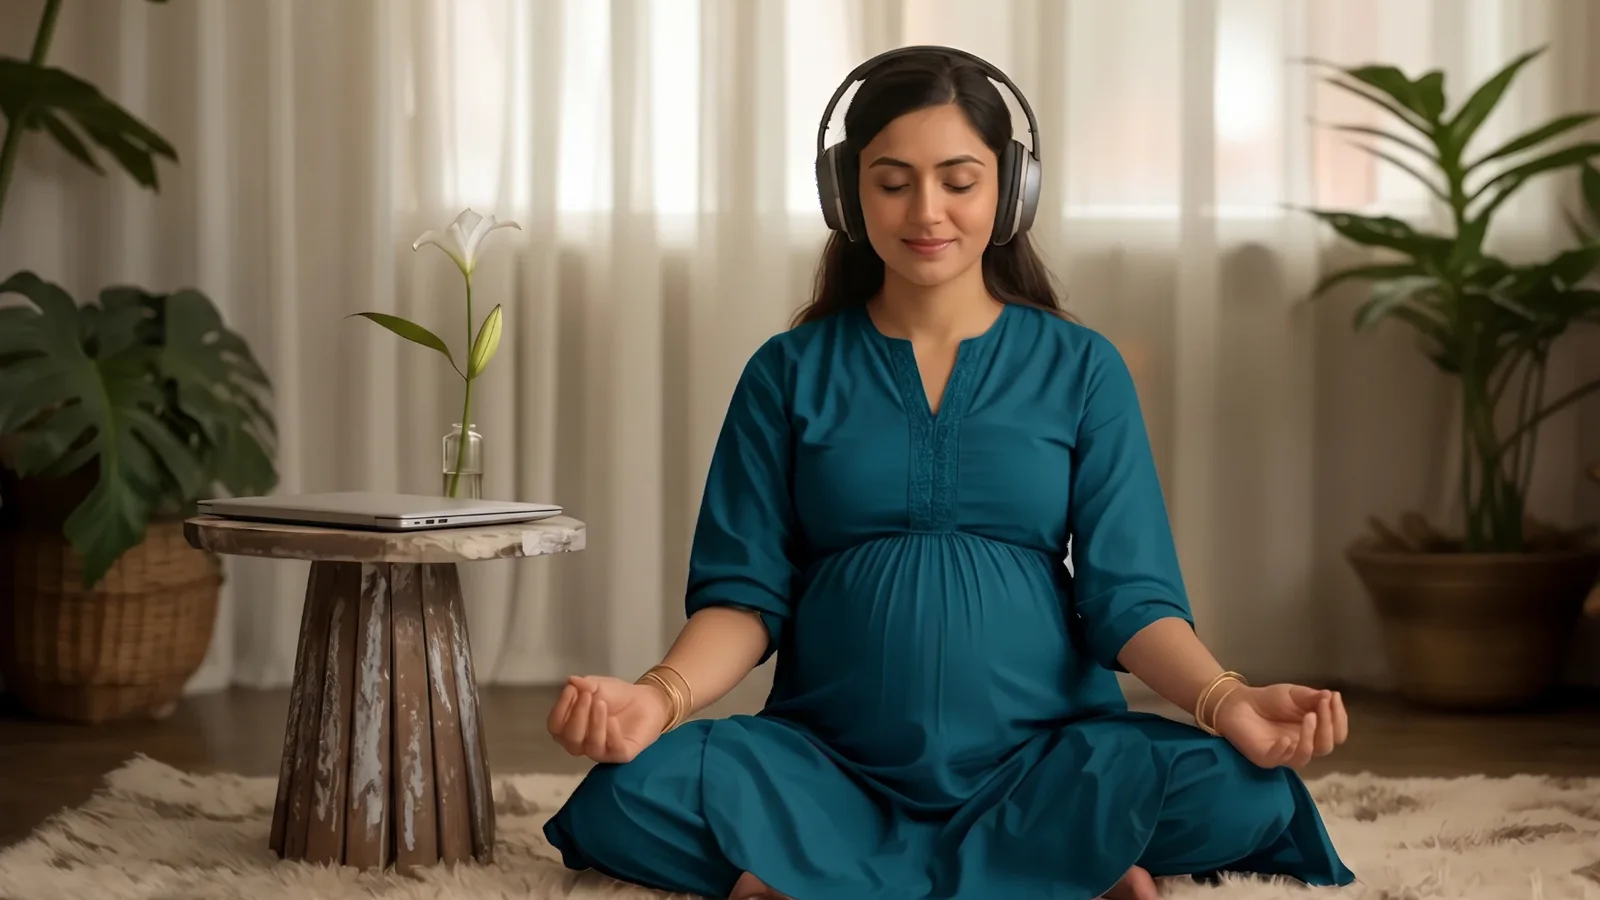
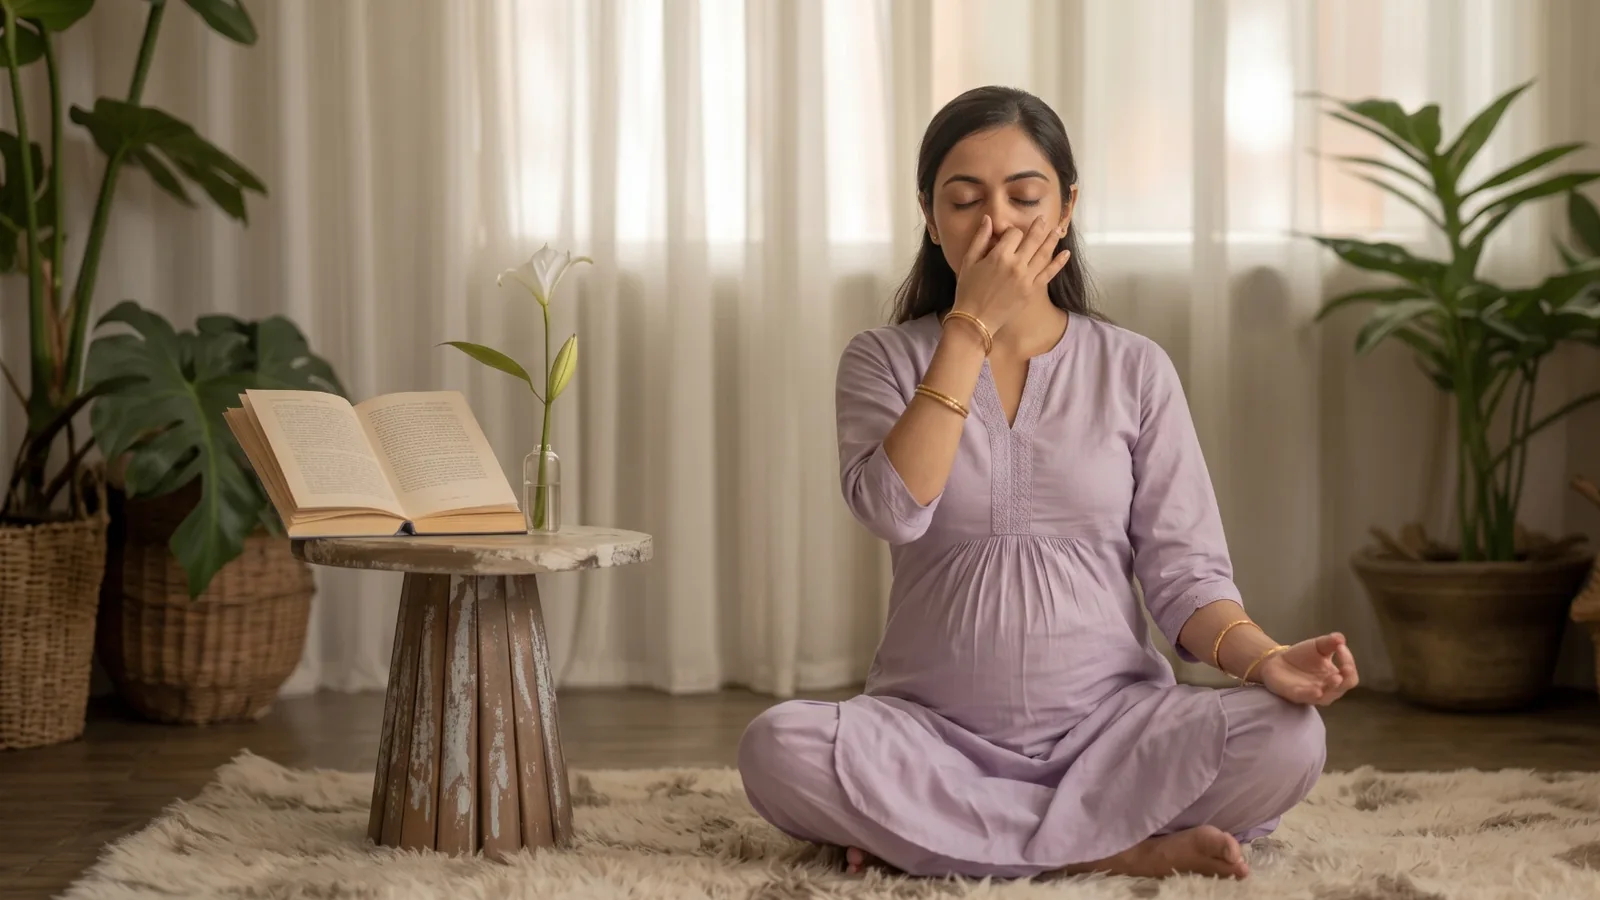
Journey photographs sized to match the stage pages, trimester photographs swapped
The journey chapters rendered their photograph at 768px while the same picture
is 460px on its own stage page; capped to 460 so the two read the same.
First trimester now carries the pranayama frame and third trimester the
meditation frame, swapped at SMK's direction.

diff --git a/kamal/theme.css b/kamal/theme.css
@@ -100,7 +100,7 @@ small{display:block;font-size:.76em;font-weight:400;opacity:.85}
 .pinout.warn{color:#8A3B0F}
 .sh-art.photo{background:none;border:0;padding:0;aspect-ratio:auto}
 .shimg,.chimg{display:block;width:100%;height:auto;aspect-ratio:16/9;object-fit:cover;border-radius:var(--r);border:1px solid var(--line)}
-.chimg{margin:0 0 16px}
+.chimg{margin:0 0 18px;max-width:460px}
 .bdone{background:var(--panel);border:1px solid var(--line);border-radius:var(--r);padding:clamp(20px,3vw,32px);display:grid;gap:14px}
 .bdone h3{margin:0}
 .bdone textarea{font:inherit;font-size:.95rem;padding:12px;border-radius:12px;border:1px solid var(--line);background:var(--bg2);width:100%}
